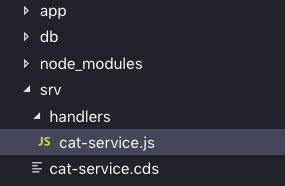
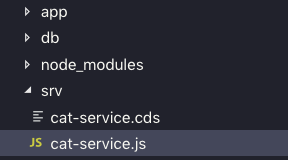
remove handlers dir

diff --git a/exercises/08/readme.md b/exercises/08/readme.md
@@ -16,9 +16,9 @@ At the end of these steps you will have modified the `CatalogService` in such a 
 
 Custom logic for a given service definition is provided in a JavaScript file that shares the same base name as that definition file. For example, for a service definition file `my-service.cds` the custom logic should be placed in a file `my-service.js`.
 
-This custom logic file can be placed either in the same directory as the service definition file (i.e. side-by-side with it), or in a separate `handlers/` directory. We will use the latter approach.
+This custom logic file is normally placed in the same directory as the service definition file (i.e. side-by-side with it).
 
-:point_right: Create a new directory `handlers/` in the `srv/` directory, and in it, create a new file `cat-service.js`. You should end up with something like this:
+:point_right: Create a new file `cat-service.js` in the `srv/` directory. You should end up with something like this:
 
 ![handlers directory](handlers-dir.png)
 
@@ -56,10 +56,10 @@ user@host:~/bookshop
 
 [cds] - server listens at http://localhost:4004
 [cds] - serving static resources from ./app
-[cds] - serving CatalogService at /catalog - impl: handlers/cat-service.js  <--
-[cds] - serving Stats at /stats - impl: handlers/cat-service.js             <--
-Service name: CatalogService                                                <--
-Service name: Stats                                                         <--
+[cds] - serving CatalogService at /catalog - impl: cat-service.js  <--
+[cds] - serving Stats at /stats - impl: cat-service.js             <--
+Service name: CatalogService                                       <--
+Service name: Stats                                                <--
 [cds] - service definitions loaded from:
 
   app/index.cds
